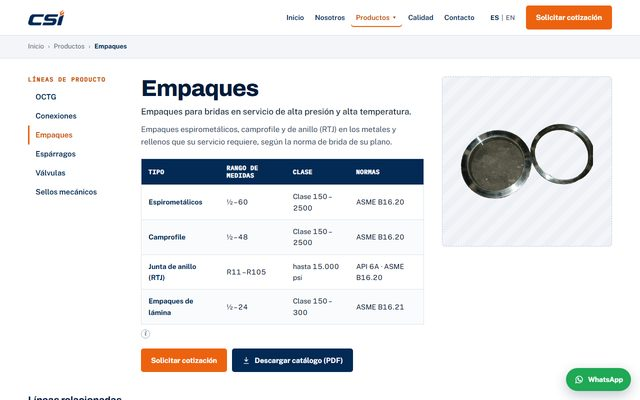
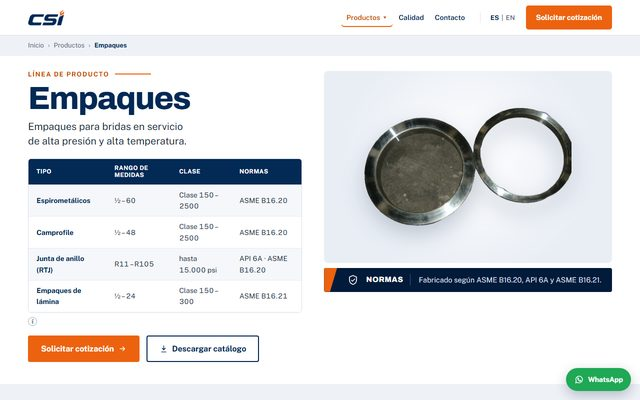
Nuevo diseño para la página de producto A

diff --git a/p-prod.html b/p-prod.html
@@ -349,6 +349,49 @@ td:first-child{font-weight:700;color:var(--navy)}
 .d3 .relc span span{font-size:13px;color:var(--orange-dk);font-weight:700}
 @media (max-width:620px){.d3 .relc .g{grid-template-columns:minmax(0,1fr)}}
 
+/* ===== design A (Catalog) after the reference image ===== */
+.d1 .hd nav>a:nth-child(1),.d1 .hd nav>a:nth-child(2){display:none}
+.d1 .hd .sw{border-left:1px solid var(--line);padding-left:18px}
+.d1 .crumbbar{background:#EEF1F6;border-bottom:0}
+.d1 .crumbbar .in{padding-block:10px}
+.d1 .hero1{display:grid;grid-template-columns:minmax(0,1fr) minmax(0,1.05fr);gap:44px;align-items:start;padding-block:30px 44px}
+.d1 .eyebrow{display:flex;align-items:center;gap:12px;font:700 13px/1 var(--f-ui);letter-spacing:.12em;text-transform:uppercase;color:var(--orange-dk)}
+.d1 .eyebrow::after{content:"";width:72px;height:2px;background:var(--orange)}
+.d1 h1{font:800 clamp(44px,5vw,64px)/1 var(--f-wide);letter-spacing:-.035em;color:var(--navy);margin:10px 0 10px}
+.d1 .lead{font:400 clamp(17px,1.6vw,20px)/1.45 var(--f-ui);color:#22303F;margin:0 0 20px;text-wrap:balance}
+.d1 .tbl1{border:1px solid var(--line);border-radius:6px;overflow-x:auto;box-shadow:0 1px 2px rgba(2,27,58,.05)}
+.d1 .tbl1 table{min-width:0;font-size:14px}
+.d1 .tbl1 th{background:var(--navy);font:700 12px/1.2 var(--f-ui);letter-spacing:.04em;padding:11px 16px}
+.d1 .tbl1 td{padding:9px 16px;border-top:1px solid #E5EAF1;color:#22303F}
+.d1 .tbl1 td:first-child{font-weight:700;color:var(--navy)}
+.d1 .tbl1 tr:nth-child(odd) td{background:#F5F7FA}.d1 .tbl1 tr:nth-child(even) td{background:#fff}
+.d1 .acts1{display:flex;flex-wrap:wrap;gap:14px;margin-top:18px}
+.d1 .acts1 .btn{padding:14px 26px;font-size:16px;border-radius:4px}
+.d1 .btn.ol{background:#fff;color:var(--navy);box-shadow:inset 0 0 0 2px var(--navy)}
+.d1 .btn.ol:hover{background:var(--mist)}
+.d1 .media1{display:grid;gap:10px}
+.d1 .ph1{position:relative;aspect-ratio:3/2;max-width:100%;border-radius:8px;overflow:hidden;background:radial-gradient(circle at 50% 45%,#FFFFFF 0,#E9EEF5 70%)}
+.d1 .ph1 img{position:absolute;inset:0;margin:auto;max-width:72%;max-height:80%;width:auto;height:auto;object-fit:contain;filter:drop-shadow(0 18px 22px rgba(2,27,58,.22))}
+.d1 .ph1.full img{max-width:none;max-height:none;width:100%;height:100%;object-fit:cover;filter:none}
+.d1 .band1{position:relative;display:flex;align-items:center;gap:14px;background:var(--midnight);color:#fff;border-radius:4px;padding:12px 18px 12px 46px;overflow:hidden;min-height:48px;flex-wrap:wrap}
+.d1 .band1::before{content:"";position:absolute;left:0;top:0;bottom:0;width:26px;background:var(--orange);clip-path:polygon(0 0,100% 0,45% 100%,0 100%)}
+.d1 .band1 .sh{width:24px;height:24px;flex:none;fill:none;stroke:#fff;stroke-width:1.7;stroke-linejoin:round}
+.d1 .band1 b{font:800 15px/1 var(--f-wide);letter-spacing:.04em;text-transform:uppercase}
+.d1 .band1 span{color:#D6DFEA;font-size:14.5px;padding-left:16px;border-left:1px solid #3B5A82}
+.d1 .rel1{background:#EEF1F6;padding-block:34px 44px}
+.d1 .rel1 h2{display:flex;align-items:center;gap:14px;font:800 clamp(22px,2.4vw,28px)/1.1 var(--f-wide);letter-spacing:-.02em;color:var(--navy);margin-bottom:20px}
+.d1 .rel1 h2::after{content:"";width:100px;height:2px;background:var(--orange)}
+.d1 .rel1 .g{display:grid;grid-template-columns:repeat(3,minmax(0,1fr));gap:24px}
+.d1 .rel1 button{display:grid;grid-template-columns:44% minmax(0,1fr) auto;align-items:center;gap:16px;background:#fff;border:1px solid var(--line);border-radius:4px;padding:0 18px 0 0;cursor:pointer;text-align:left;overflow:hidden;min-height:92px}
+.d1 .rel1 button:hover{border-color:var(--navy);box-shadow:0 8px 20px -12px rgba(2,27,58,.35)}
+.d1 .th1{position:relative;align-self:stretch;min-height:92px;background:radial-gradient(circle at 50% 45%,#FFFFFF 0,#E3E9F1 75%)}
+.d1 .th1 img{position:absolute;inset:0;margin:auto;max-width:80%;max-height:80%;object-fit:contain}
+.d1 .th1.full img{max-width:none;max-height:none;width:100%;height:100%;object-fit:cover}
+.d1 .rel1 .nm{font:700 18px/1.2 var(--f-wide);color:var(--navy)}
+.d1 .rel1 i{font-style:normal;color:var(--orange);font-size:22px;font-weight:700}
+@media (max-width:980px){.d1 .hero1{grid-template-columns:minmax(0,1fr)}.d1 .rel1 .g{grid-template-columns:minmax(0,1fr)}}
+@media (max-width:620px){.d1 .tbl1 table{min-width:520px}.d1 .band1 span{border-left:0;padding-left:0;flex-basis:100%}}
+
 /* ---------- responsive ---------- */
 @media (max-width:980px){
   .hd nav{display:none}.hd .sw{margin-left:auto}
@@ -436,12 +479,14 @@ const LINES=[
 ];
 const REL={octg:['fittings','studs','valves'],fittings:['gaskets','studs','valves'],gaskets:['studs','fittings','seals'],studs:['gaskets','fittings','valves'],valves:['gaskets','studs','fittings'],seals:['valves','gaskets','fittings']};
 const DESIGNS=[
- {id:'p1',en:['Catalog','The brief\'s template: sidebar of lines, spec table and photo side by side.'],es:['Catálogo','La plantilla del brief: líneas a un lado, tabla técnica y foto lado a lado.']},
+ {id:'p1',en:['Catalog','Title, spec table and buttons beside a large photo with a standards banner, then related lines as photo cards.'],es:['Catálogo','Título, tabla técnica y botones junto a una foto grande con franja de normas; luego líneas relacionadas con foto.']},
  {id:'p2',en:['Datasheet','A technical sheet: product on graph paper, key data, tabs for range, materials and documents.'],es:['Ficha técnica','Una hoja técnica: producto sobre papel milimetrado, datos clave y pestañas de rango, materiales y documentos.']},
  {id:'p3',en:['Showcase','A bold navy opening with the CSI slant, then each product type as a photo card.'],es:['Vitrina','Una apertura azul marino con la diagonal de CSI y cada tipo de producto como tarjeta con foto.']},
  {id:'p4',en:['Quote builder','A clean list of types: add what you need and send one quote request from the same page.'],es:['Cotizador','Una lista limpia de tipos: agregue lo que necesita y envíe una sola solicitud desde la misma página.']}
 ];
 const T={
+ pline:['Product line','Línea de producto'],dlS:['Download catalog','Descargar catálogo'],
+ stdH:['Standards','Normas'],stdP:['Manufactured to {x}.','Fabricado según {x}.'],relP:['Related product lines','Líneas de producto relacionadas'],
  rvTitle:['CSI · product page options','CSI · opciones de página de producto'],
  home:['Home','Inicio'],about:['About us','Nosotros'],products:['Products','Productos'],quality:['Quality','Calidad'],contact:['Contact','Contacto'],
  quote:['Request a quote','Solicitar cotización'],quoteS:['Quote','Cotizar'],lines:['Product lines','Líneas de producto'],
@@ -512,14 +557,21 @@ function footer(){
    +'<div class="base"><span>© CSI Industries Energy Group Ltd</span><span>csiindustrieseg.com/'+lang+'/'+(lang==='en'?'products':'productos')+'/'+C().id+'</span></div></div></footer>';
 }
 
-/* ===== design 1 · Catalog ===== */
+/* ===== design 1 · Catalog (after the user's reference) ===== */
+function stdList(l){const u=[];rowsOf(l).forEach(r=>r.std.split(' · ').forEach(x=>{if(u.indexOf(x)<0)u.push(x)}));return u.slice(0,3)}
+function joinList(a){return a.length<2?a.join(''):a.slice(0,-1).join(', ')+(lang==='es'?' y ':' and ')+a[a.length-1]}
 function d1(){
-  const l=C();
+  const l=C(), photo=l.full?l.img:l.img;
   return '<div class="d1">'+header()+'<div class="crumbbar"><div class="in">'+crumb()+'</div></div>'
-   +'<div class="in body"><aside class="side"><h2>'+t('lines')+'</h2><ul>'+LINES.map(x=>'<li><button type="button" data-line="'+x.id+'" aria-current="'+(x.id===cur)+'">'+esc(N(x))+'</button></li>').join('')+'</ul></aside>'
-   +'<div><h1>'+esc(N(l))+'</h1><p class="lead">'+esc(l[lang].l)+'</p><p class="desc">'+esc(l[lang].d)+'</p>'+table(l)+'<div class="acts">'+acts()+'</div></div>'
-   +'<div class="pic">'+im(l.img,l.full)+'<span class="tag">'+t('photoTag')+'</span></div></div>'
-   +'<section class="in rel"><h2>'+t('rel')+'</h2><div class="g">'+REL[cur].map(id=>'<button type="button" data-line="'+id+'"><b>'+esc(N(L(id)))+'</b><span>'+t('viewLine')+'</span></button>').join('')+'</div></section>'
+   +'<div class="in hero1"><div class="txt">'
+   +'<span class="eyebrow">'+t('pline')+'</span><h1>'+esc(N(l))+'</h1><p class="lead">'+esc(l[lang].l)+'</p>'
+   +'<div class="tbl1" role="region" aria-label="'+t('size')+'" tabindex="0"><table><thead><tr><th>'+t('type')+'</th><th>'+t('size')+'</th><th>'+t('rating')+'</th><th>'+t('std')+'</th></tr></thead><tbody>'
+   +rowsOf(l).map(r=>'<tr><td>'+esc(r.n)+'</td><td>'+esc(r.size)+'</td><td>'+esc(r.rating)+'</td><td>'+esc(r.std)+'</td></tr>').join('')+'</tbody></table></div>'
+   +note()
+   +'<div class="acts1"><button class="btn or" type="button" data-q>'+t('quote')+' <svg><use href="#i-arrow"/></svg></button><button class="btn ol" type="button" data-cat><svg><use href="#i-dl"/></svg>'+t('dlS')+'</button></div></div>'
+   +'<div class="media1"><div class="ph1'+(l.full?' full':'')+'">'+im(photo,l.full)+'<span class="tag">'+t('photoTag')+'</span></div>'
+   +'<div class="band1"><svg class="sh" viewBox="0 0 24 24" aria-hidden="true"><path d="M12 3l7 3v6c0 4.4-3 7.6-7 9-4-1.4-7-4.6-7-9V6z"/><path d="M8.5 12l2.5 2.5L16 9.5"/></svg><b>'+t('stdH')+'</b><span>'+esc(t('stdP').replace('{x}',joinList(stdList(l))))+'</span></div></div></div>'
+   +'<section class="rel1"><div class="in"><h2>'+t('relP')+'</h2><div class="g">'+REL[cur].map(id=>{const x=L(id);return '<button type="button" data-line="'+id+'"><span class="th1'+(x.full?' full':'')+'">'+im(x.img,x.full)+'</span><span class="nm">'+esc(N(x))+'</span><i>→</i></button>'}).join('')+'</div></div></section>'
    +ask()+footer()+'</div>';
 }
 /* ===== design 2 · Datasheet ===== */
